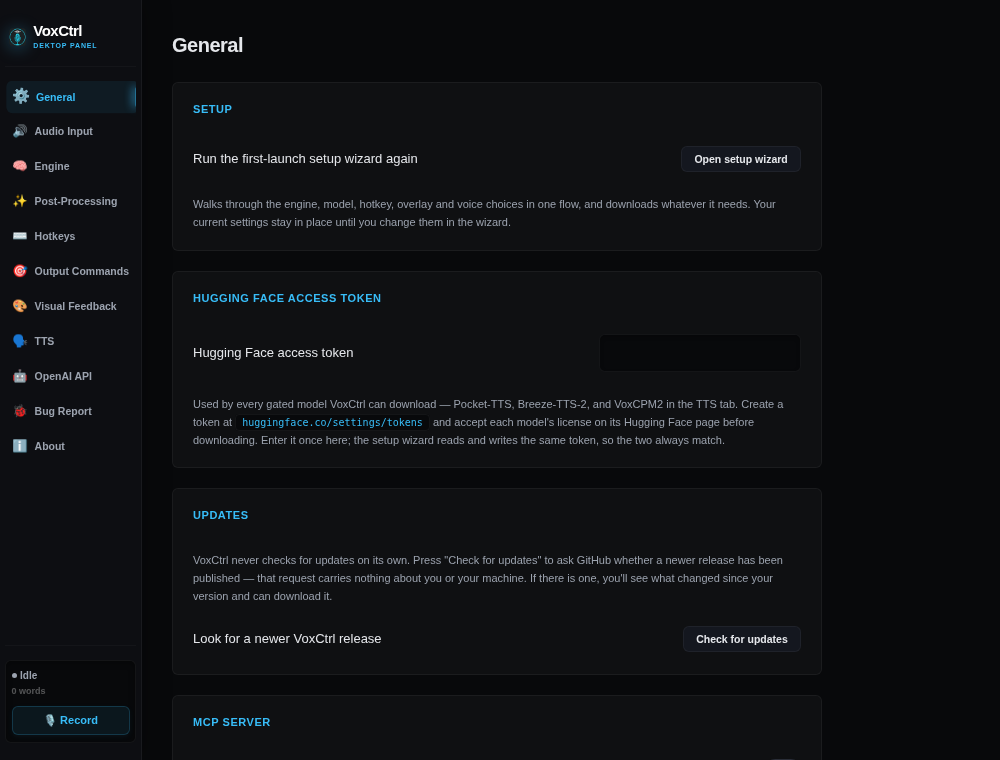
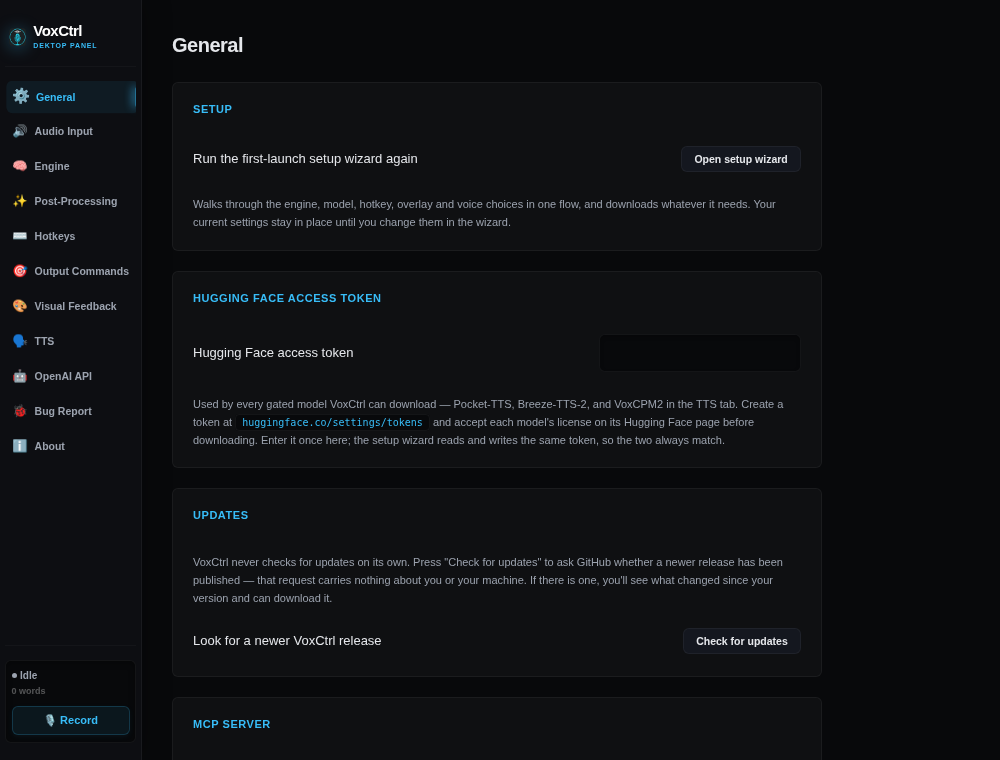
Show a green Up to date pill instead of a link/hint; drop redundant GitHub download link
Claude-Session: https://claude.ai/code/session_01XsSKBtbmYi5hSppwx66CkN

diff --git a/src/lib/Settings/GeneralTab.svelte b/src/lib/Settings/GeneralTab.svelte
@@ -124,7 +124,12 @@
 
 
   <div class="field-group">
-    <h3>Updates</h3>
+    <div class="field-label-row">
+      <h3>Updates</h3>
+      {#if checkResult && !checkResult.update}
+        <span class="status-pill success" title="VoxCtrl {checkResult.current_version} is the latest release">✔ Up to date</span>
+      {/if}
+    </div>
     <p class="hint">
       VoxCtrl never checks for updates on its own. Press "Check for updates" to ask GitHub whether a
       newer release has been published — that request carries nothing about you or your machine. If
@@ -136,9 +141,6 @@
         {checking ? "Checking…" : "Check for updates"}
       </button>
     </div>
-    {#if checkResult && !checkResult.update}
-      <p class="hint">VoxCtrl {checkResult.current_version} is the latest release.</p>
-    {/if}
     {#if checkError}
       <p class="hint error">Could not check for updates: {checkError}</p>
     {/if}
@@ -174,6 +176,13 @@
 
 <style>
   @reference "../../app.css";
+
+  .status-pill {
+    @apply text-xs px-3 py-1.5 rounded-[var(--radius)] font-medium leading-normal;
+  }
+  .status-pill.success {
+    @apply bg-emerald-500/15 text-emerald-300 border border-emerald-500/30;
+  }
 
   .btn-action {
     @apply bg-[var(--surface2)] text-[var(--text)] border border-[var(--border)] rounded-[var(--radius)] p-1.5 px-3.5 text-xs font-semibold cursor-pointer transition-all duration-150 ease-out;

diff --git a/src/lib/Update/UpdateDialog.svelte b/src/lib/Update/UpdateDialog.svelte
@@ -193,9 +193,6 @@
       {:else if phase === "up-to-date"}
         <button class="btn-primary" onclick={notNow}>Close</button>
       {:else if info}
-        <div class="left-actions">
-          <button class="link" onclick={openReleasePage}>Download from GitHub</button>
-        </div>
         <div class="right-actions">
           <button class="btn-secondary" onclick={notNow}>Not now</button>
           {#if info.can_self_update}
@@ -271,9 +268,6 @@
   }
   footer {
     @apply flex flex-wrap items-center justify-between gap-3 mt-1;
-  }
-  .left-actions {
-    @apply flex flex-col items-start gap-1;
   }
   .right-actions {
     @apply flex items-center gap-2 ml-auto;

diff --git a/tests/svelte/GeneralTabUpdates.test.ts b/tests/svelte/GeneralTabUpdates.test.ts
@@ -43,7 +43,7 @@ describe("General tab update check", () => {
     answer({ current_version: "0.3.10", update: null });
     render(GeneralTab, { cfg: get(config) });
     await fireEvent.click(screen.getByRole("button", { name: "Check for updates" }));
-    expect(await screen.findByText(/0\.3\.10 is the latest release/)).toBeTruthy();
+    expect(await screen.findByText(/Up to date/)).toBeTruthy();
     expect(invoke).not.toHaveBeenCalledWith("open_update_window", undefined);
   });
 

diff --git a/docs/ui.md b/docs/ui.md
@@ -40,7 +40,7 @@ The main configuration interface. Organized into a sidebar with eleven tabs:
 ### General Tab
 - "Open setup wizard" button — re-runs the first-run wizard
 - **HuggingFace access token** — the single field for the token used by every gated model VoxCtrl can download (Pocket-TTS, Breeze-TTS-2, VoxCPM2); read-only, showing the value, when `HF_TOKEN` is exported. Writes `tts.hf_token`, the same field the setup wizard's voice step edits, so a token entered in either place shows up in the other.
-- A single "Check for updates" button (VoxCtrl never checks on its own). Up to date: the result is shown inline. A newer release: the Update window opens with the change log from the running version to the latest and a download link
+- A single "Check for updates" button (VoxCtrl never checks on its own). Up to date: a green "✔ Up to date" pill appears beside the Updates heading and no window opens. A newer release: the Update window opens with the change log from the running version to the latest and a download link
 - MCP server toggle, visual feedback toggle, and record timeout control
 - Recording status indicator and word count
 - Manual record/stop button
